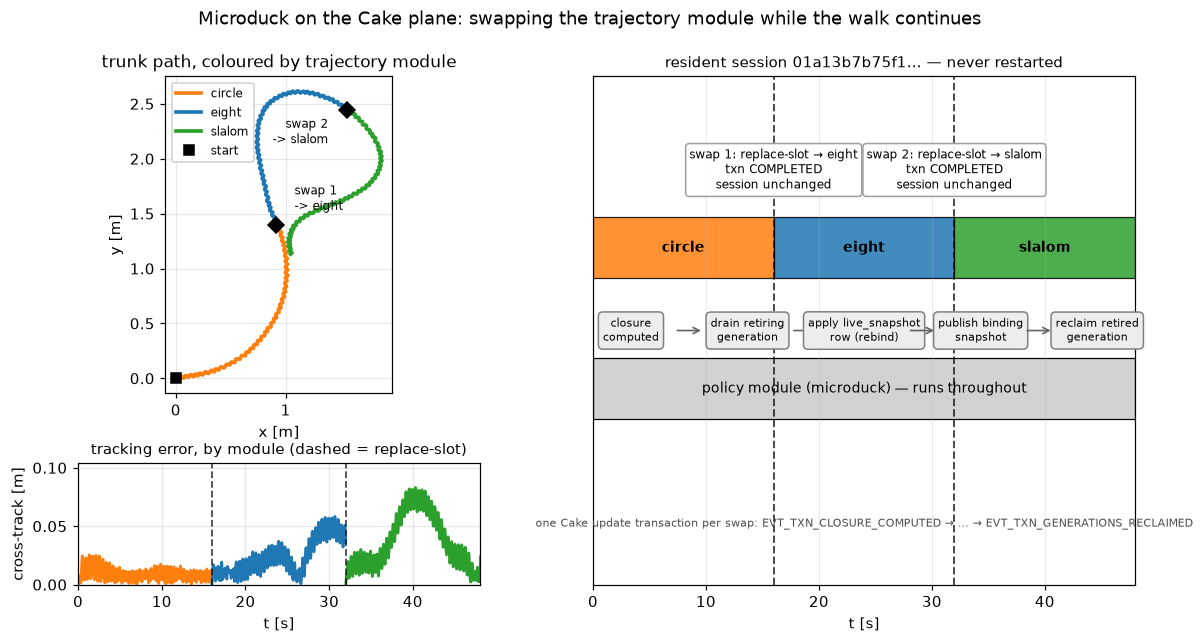
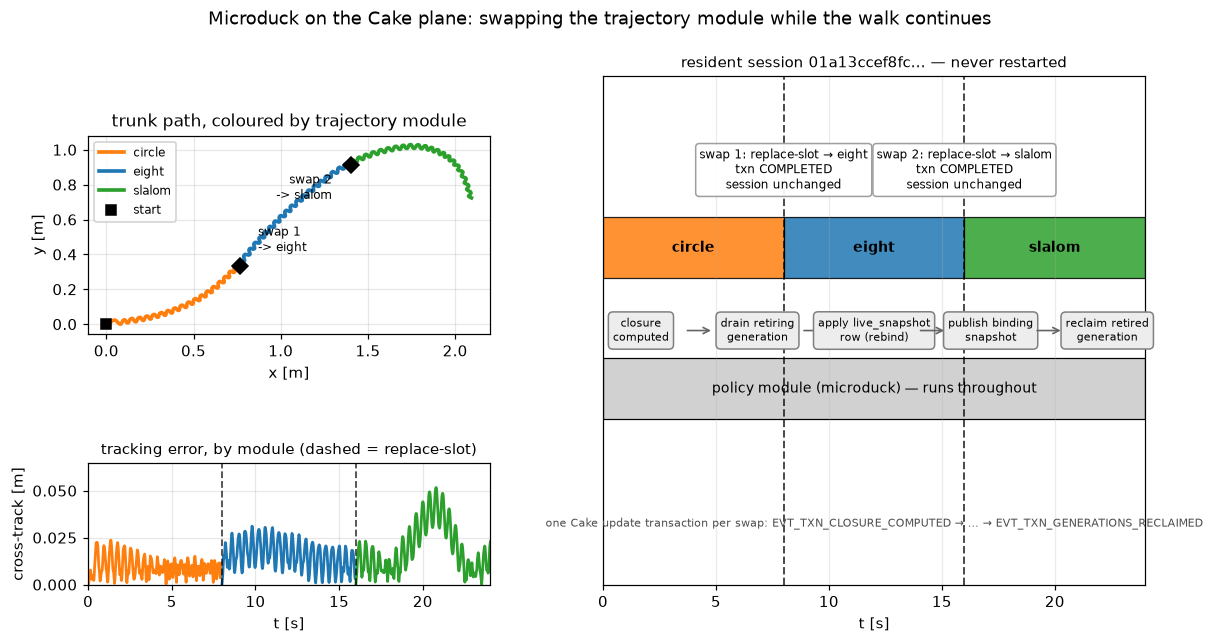
docs: refresh the Cake media from the fixed kernel, and correct how it is regenerated
Regenerate the four committed docs/media/cake figures (walk GIF + swap figure,
world-fixed and anchored) from the released resident that carries the epoch-guard
binding-port backfill (source digest 0fc245bd). The eight-segment cross-track error
now decays -- anchored mean 0.015 m, world-fixed 0.064 m -- instead of climbing as it
did on the pre-fix kernel.

Regenerated at the documented default SECS=24, not the previous 48 s: the 48 s anchored
render cannot hold real time, and the runner's wall-clock replace-slot then drifts from
the client's sim-time segment boundaries, inflating the anchored cross-track error. Also
document the anchored regeneration command, correct the control-plane doc's media
destination (state/media, not docs/media/cake), and record the resident's build identity
in the release notes.

diff --git a/README.md b/README.md
@@ -170,8 +170,9 @@ What a run does:
    renders and PASSes.
 
 `make cake` writes two artifacts to `state/media/` (override with `MEDIA_DIR=`; the
-copies this README embeds live under `docs/media/cake/` and are regenerated deliberately
-with `make cake MEDIA_DIR=docs/media/cake`):
+copies this README embeds live under `docs/media/cake/` and are regenerated
+deliberately — `make cake MEDIA_DIR=docs/media/cake`, plus its anchored pair with
+`make cake ANCHOR=1 MEDIA_DIR=docs/media/cake`):
 
 - `microduck_cake_walk.gif` — the 3-D walk beside a bird's-eye panel that **colours
   the path by the trajectory module driving it**, marks each swap, and shows the
@@ -420,8 +421,9 @@ identity around it), `resident.out` and `client.out`. The GIF and the swap figur
 your clone. The copies this README embeds are regenerated as a deliberate opt-in:
 
 ```bash
-make cake MEDIA_DIR=docs/media/cake   # rewrite the committed media
-make cake MEDIA_DIR=/tmp/duck         # or send it anywhere else
+make cake MEDIA_DIR=docs/media/cake             # rewrite the committed media
+make cake ANCHOR=1 MEDIA_DIR=docs/media/cake    # ...and its anchored pair
+make cake MEDIA_DIR=/tmp/duck                   # or send it anywhere else
 ```
 
 If the dependencies live in a virtualenv, point the runner at it — an explicit `PYTHON`

diff --git a/RELEASE_NOTES.md b/RELEASE_NOTES.md
@@ -60,8 +60,10 @@ unset in `bin/lib/common.sh`, so `bin/fetch-release.sh` verifies the digest and
 check, and the download channel as the trust.
 
 **No `MANIFEST.txt`.** This release does not carry a per-file manifest, so it does not
-record the private `source_revision` the binaries were built from. That is worth adding
-for the next one.
+record the private `source_revision` the binaries were built from. The resident does
+embed its build identity — the private `shinro-cake` source digest `0fc245bd…` (the
+epoch-guard binding-port backfill) — but a per-file `MANIFEST.txt` would record it
+readably; that is worth adding for the next one.
 
 ## Attribution
 

diff --git a/docs/cake-control-plane.md b/docs/cake-control-plane.md
@@ -97,7 +97,9 @@ epoch guard (`recv obs → Vm.step → send action` stays one lockstep thread).
 ## See it: the render and the swap figure
 
 `make cake` (default `SWAP=circle,eight,slalom SECS=24`) renders two artifacts into
-`docs/media/cake/` (`GIF=cake|full|compact|trajectory`, or `GIF=` to skip):
+`state/media/` (`GIF=cake|full|compact|trajectory`, or `GIF=` to skip); the copies the
+README embeds live under `docs/media/cake/` and are regenerated deliberately (see
+"Running it again" in the README):
 
 - `microduck_cake_walk.gif` — the 3-D MuJoCo walk (offscreen EGL) beside a
   bird's-eye panel that **colours the path by the trajectory module driving it**
